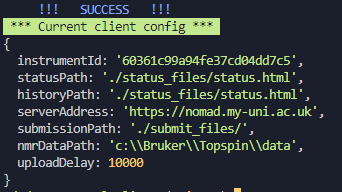
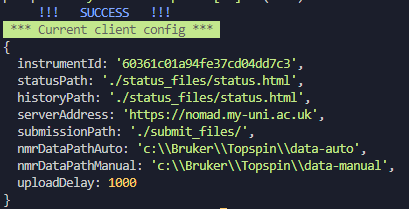
v3.3.0

diff --git a/blog/2023-06-15-v.3.3.0.md b/blog/2023-06-15-v.3.3.0.md
@@ -1,0 +1,18 @@
+---
+slug: v.3.3.0
+title: Could orange be the new red (v3.3.0)
+authors: [tomlebl]
+tags: [NOMAD, NMRium, manual data]
+---
+
+I try to keep up with something that it seems to become a tradition and release another major upgrade just before summer holidays. The new NOMAD version 3.3.0 brings couple of major upgrades.
+
+- Gateway for adding NMR data that have been acquired without IconNMR automated workflow
+- Ability to open FIDs from datastore in NMRium
+<!--truncate-->
+
+These two features are a big game changer for me. Firstly, the new gateway for manual data allows us to browse through NMR data on instrument, to upload selected datasets into datastore, to assign them to individual users and to add corresponding experimental time into accounting records. Although we acquire most of our data under automation, some experiments can't be automatised and need manual approach. That includes experiments that require variable temperature, reaction monitoring or just tweaking some parameters prior acquisition. These experiments are quite often interesting and required for publication. So far, there was no way to archived those in NOMAD datastore which I have supposed to be a big drawback. Version 3.3.0 solves this issue and for few weeks we have been already archiving absolutely all data acquired on our 6 instruments. This feature also allows to upload data, that have been acquired in past and that be worth to have archived for reference, teaching and so on.
+
+NOMAD datastore archives both FIDs and spectra but NOMAD backend excludes FIDs from being open in **[NMRium](https://nmrium.org)** to keep the view simple for ordinary users. Version 3.3.0 allows now to add selected FIDs in **[NMRium](https://nmrium.org)** portfolio and thus unlocks full processing potential of **[NMRium](https://nmrium.org)** and one can reprocess the spectra using different window function or zero filling if that's required.
+
+Driving force for adding these two features was NMR course for PhD students that I teach every May. The course finishes with two hours workshop where I show chemistry students some NMR processing tricks that they might not be aware of and which they usually find very surprising. I would traditionally use wide spread NMR processing software with the red logo. I would also mention and show few things with the blue software as well. This year I challenge myself to carry the whole workshop using **[NMRium](https://nmrium.org)** connected to NOMAD datastore where I would upload some of my teaching material using the new manual data gateway. This decision pushed me to implement two above mentioned features as soon as possible. Furthermore, I was also forced to have a deeper look on **[NMRium](https://nmrium.org)** and its capabilities and I would recommend to anybody who runs NMR service for chemists to do the same. I find **[NMRium](https://nmrium.org)** surprisingly capable. Moreover, it also offers very intuitive and uncluttered interface with some very nice innovative features. There is still couple of functionalities that is missing. However, majority things that you would want to do with NMR spectra as chemist can be done and the rest is likely coming since **[NMRium](https://nmrium.org)** is still under active and vigorous development. To conclude, I successfully passed the challenge that I set up on myself and that makes me think that there is a chance that the orange will become the new red.

diff --git a/docs/getting-started/client-installation.md b/docs/getting-started/client-installation.md
@@ -57,7 +57,8 @@ You will need to fill in following entries
 - **historyPath**: Relative path to IconNMR history.html file. Keep it same as **statusPath** if both IconNMR status and history are written in the same file. Recommended. _(./status_files/status.html)_
 - **serverAddress**: URL of your NOMAD server _(https://nomad.my-uni.ac.uk)_
 - **submissionPath**: Relative path to IconNMR external set up folder. _(./submit_files/)_
-- **nmrDataPath**: Absolute path to IconNMR data folder. _(c:\Bruker\Topspin\data)_
+- **nmrDataPathAuto**: Absolute path to IconNMR data folder. _(c:\Bruker\Topspin\data-auto)_
+- **nmrDataPathManual**: Absolute path to manual data folder. _(c:\Bruker\Topspin\data-manual)_
 - **uploadDelay**: Delay for data upload [ms]. _(10000) If set to short data upload can be triggered before Topspin is finished with processing._
 
 At the end you should see something like this.
